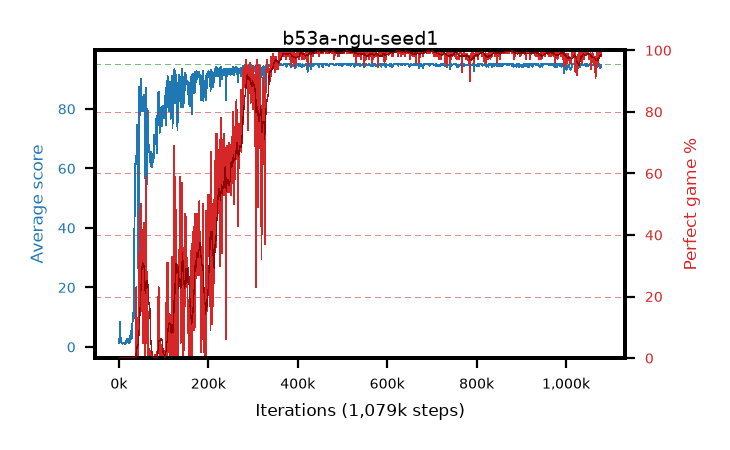
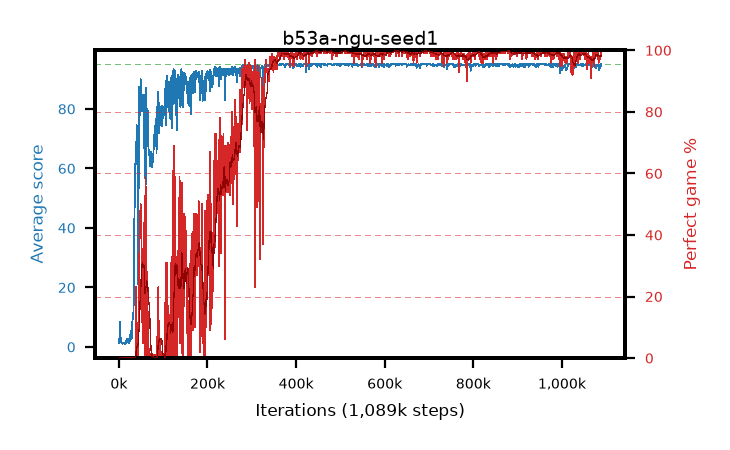
live pictures of 4 arm(s)

diff --git a/results/b53a-ngu-seed1/b53a-ngu-seed1.md b/results/b53a-ngu-seed1/b53a-ngu-seed1.md
@@ -1,6 +1,6 @@
 # b53a-ngu-seed1
 
-step **1,079,000** · 1079 evals · trailing **94.69** · peak **94.96** @643,000 · sef **74.0** · best30 **99.7** @643,000
+step **1,089,000** · 1089 evals · trailing **94.53** · peak **94.96** @643,000 · sef **74.2** · best30 **99.7** @643,000
 
 ## Config
 
@@ -80,15 +80,15 @@ step **1,079,000** · 1079 evals · trailing **94.69** · peak **94.96** @643,00
 | 2000 | 8.43 | 4.84 | 0.0 | 21.0 | 7.201 | 0.0 | 0.4 |
 | 3000 | 8.52 | 6.07 | 0.0 | 26.0 | 5.525 | 0.0 | 0.4 |
 | ... | ... | ... | ... | ... | ... | ... | ... |
-| 1068000 | 94.52 | 94.78 | 52.0 | 95.0 | 191.173 | 98.0 | 0.4 |
-| 1069000 | 94.2 | 94.75 | 24.0 | 95.0 | 190.792 | 98.0 | 0.4 |
-| 1070000 | 95.0 | 94.76 | 95.0 | 95.0 | 193.709 | 100.0 | 0.4 |
-| 1071000 | 95.0 | 94.76 | 95.0 | 95.0 | 193.687 | 100.0 | 0.4 |
-| 1072000 | 94.79 | 94.76 | 86.0 | 95.0 | 188.261 | 95.0 | 0.4 |
-| 1073000 | 94.99 | 94.76 | 94.0 | 95.0 | 192.633 | 99.0 | 0.4 |
-| 1074000 | 95.0 | 94.76 | 95.0 | 95.0 | 193.696 | 100.0 | 0.4 |
-| 1075000 | 94.25 | 94.75 | 22.0 | 95.0 | 190.868 | 98.0 | 0.4 |
-| 1076000 | 93.6 | 94.71 | 24.0 | 95.0 | 190.225 | 98.0 | 0.4 |
-| 1077000 | 94.95 | 94.71 | 90.0 | 95.0 | 192.637 | 99.0 | 0.4 |
 | 1078000 | 94.95 | 94.7 | 92.0 | 95.0 | 191.592 | 98.0 | 0.4 |
 | 1079000 | 94.21 | 94.69 | 16.0 | 95.0 | 191.864 | 99.0 | 0.4 |
+| 1080000 | 94.47 | 94.68 | 42.0 | 95.0 | 192.098 | 99.0 | 0.4 |
+| 1081000 | 94.5 | 94.66 | 54.0 | 95.0 | 190.108 | 97.0 | 0.4 |
+| 1082000 | 95.0 | 94.67 | 95.0 | 95.0 | 193.693 | 100.0 | 0.4 |
+| 1083000 | 92.98 | 94.6 | 19.0 | 95.0 | 187.518 | 96.0 | 0.4 |
+| 1084000 | 93.92 | 94.57 | 38.0 | 95.0 | 190.549 | 98.0 | 0.4 |
+| 1085000 | 94.91 | 94.58 | 89.0 | 95.0 | 191.581 | 98.0 | 0.4 |
+| 1086000 | 93.68 | 94.55 | 29.0 | 95.0 | 189.261 | 97.0 | 0.4 |
+| 1087000 | 94.18 | 94.52 | 18.0 | 95.0 | 190.842 | 98.0 | 0.4 |
+| 1088000 | 94.99 | 94.53 | 94.0 | 95.0 | 192.634 | 99.0 | 0.4 |
+| 1089000 | 95.0 | 94.53 | 95.0 | 95.0 | 193.695 | 100.0 | 0.4 |
